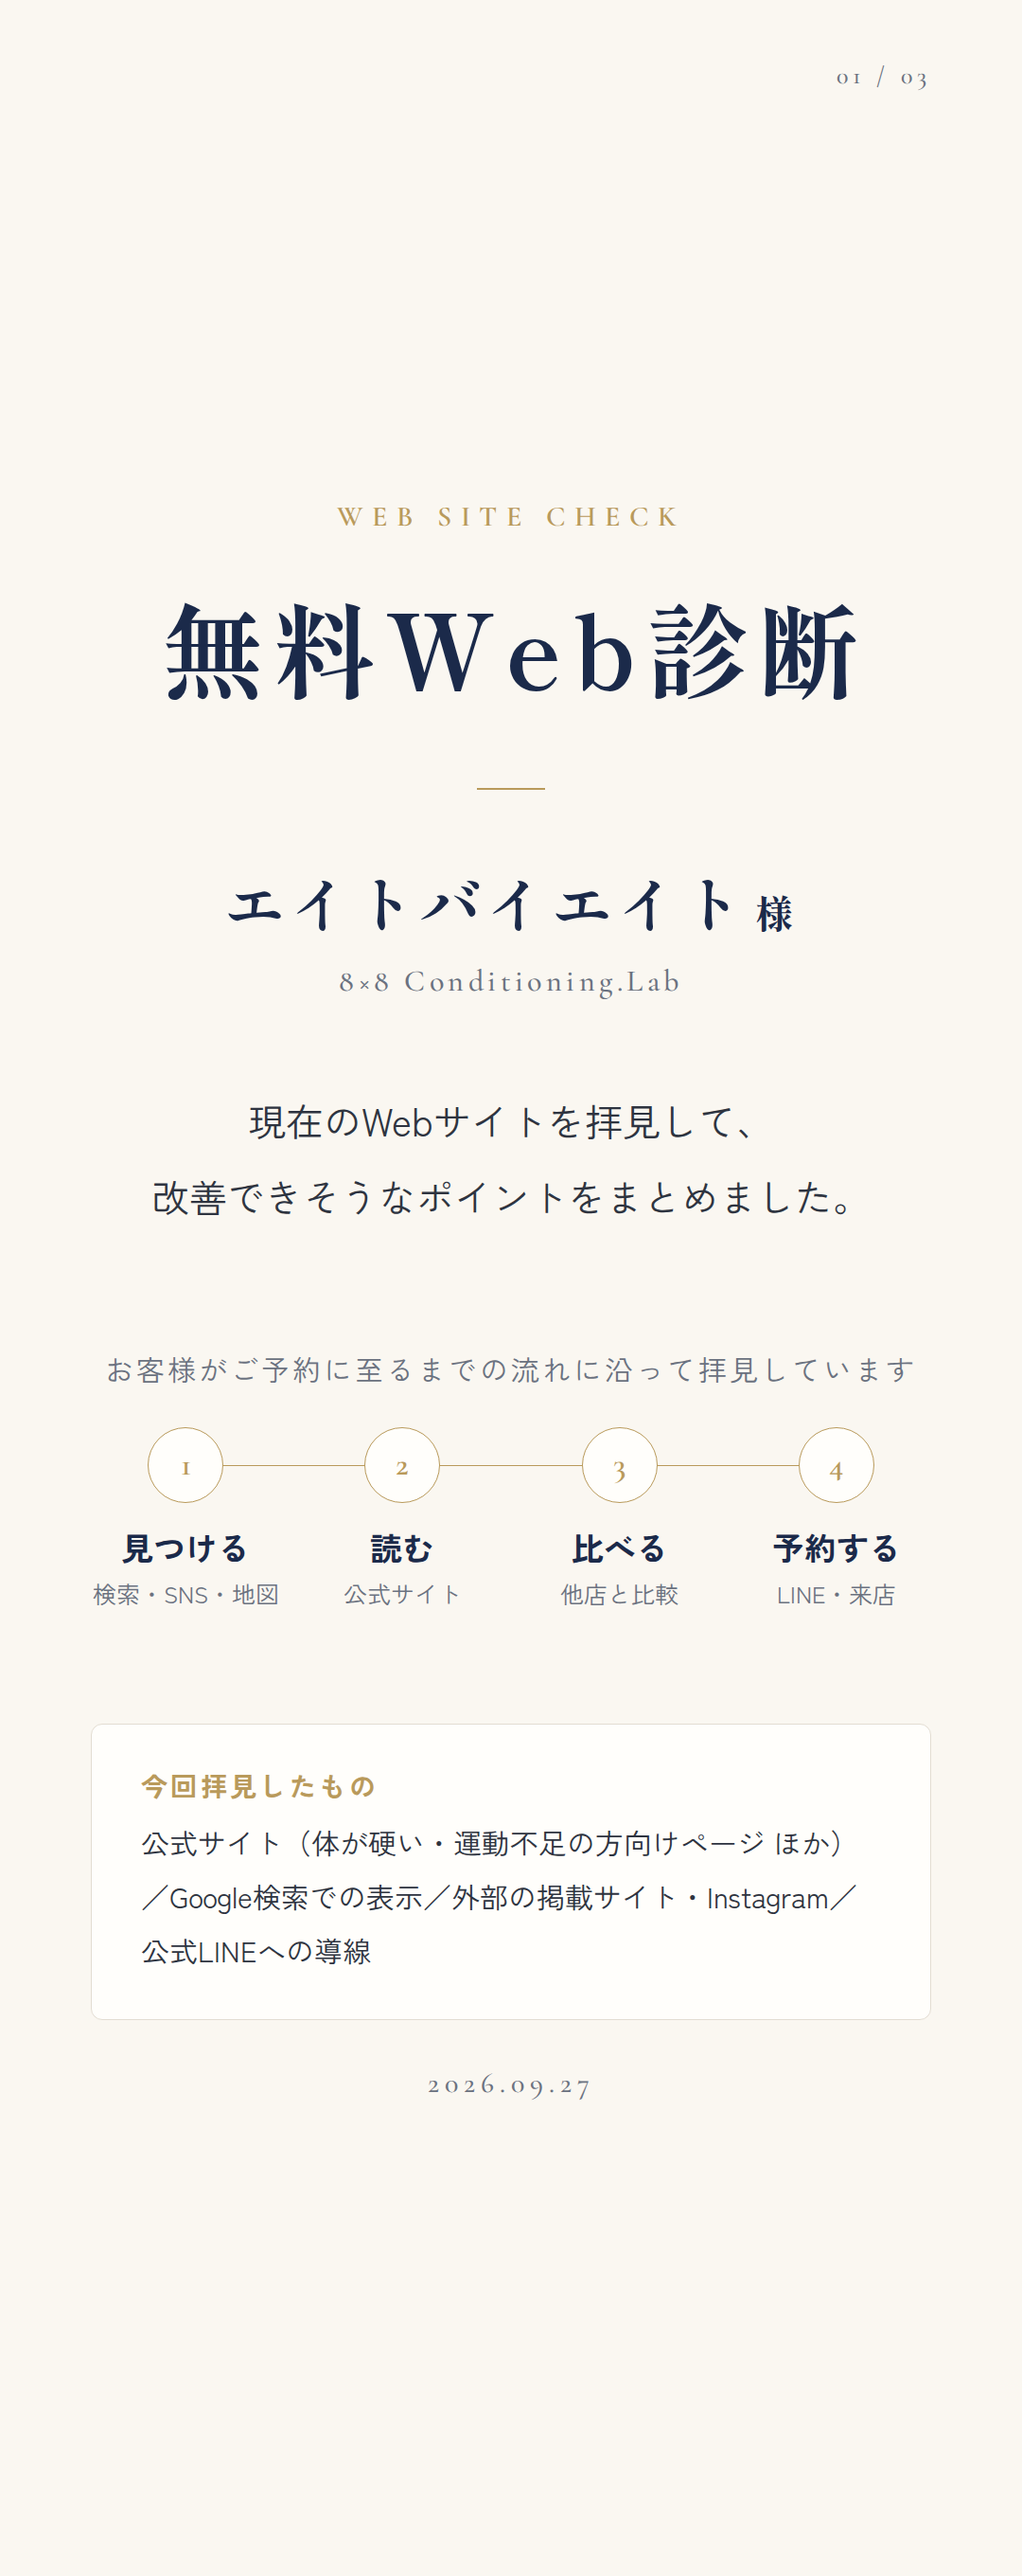
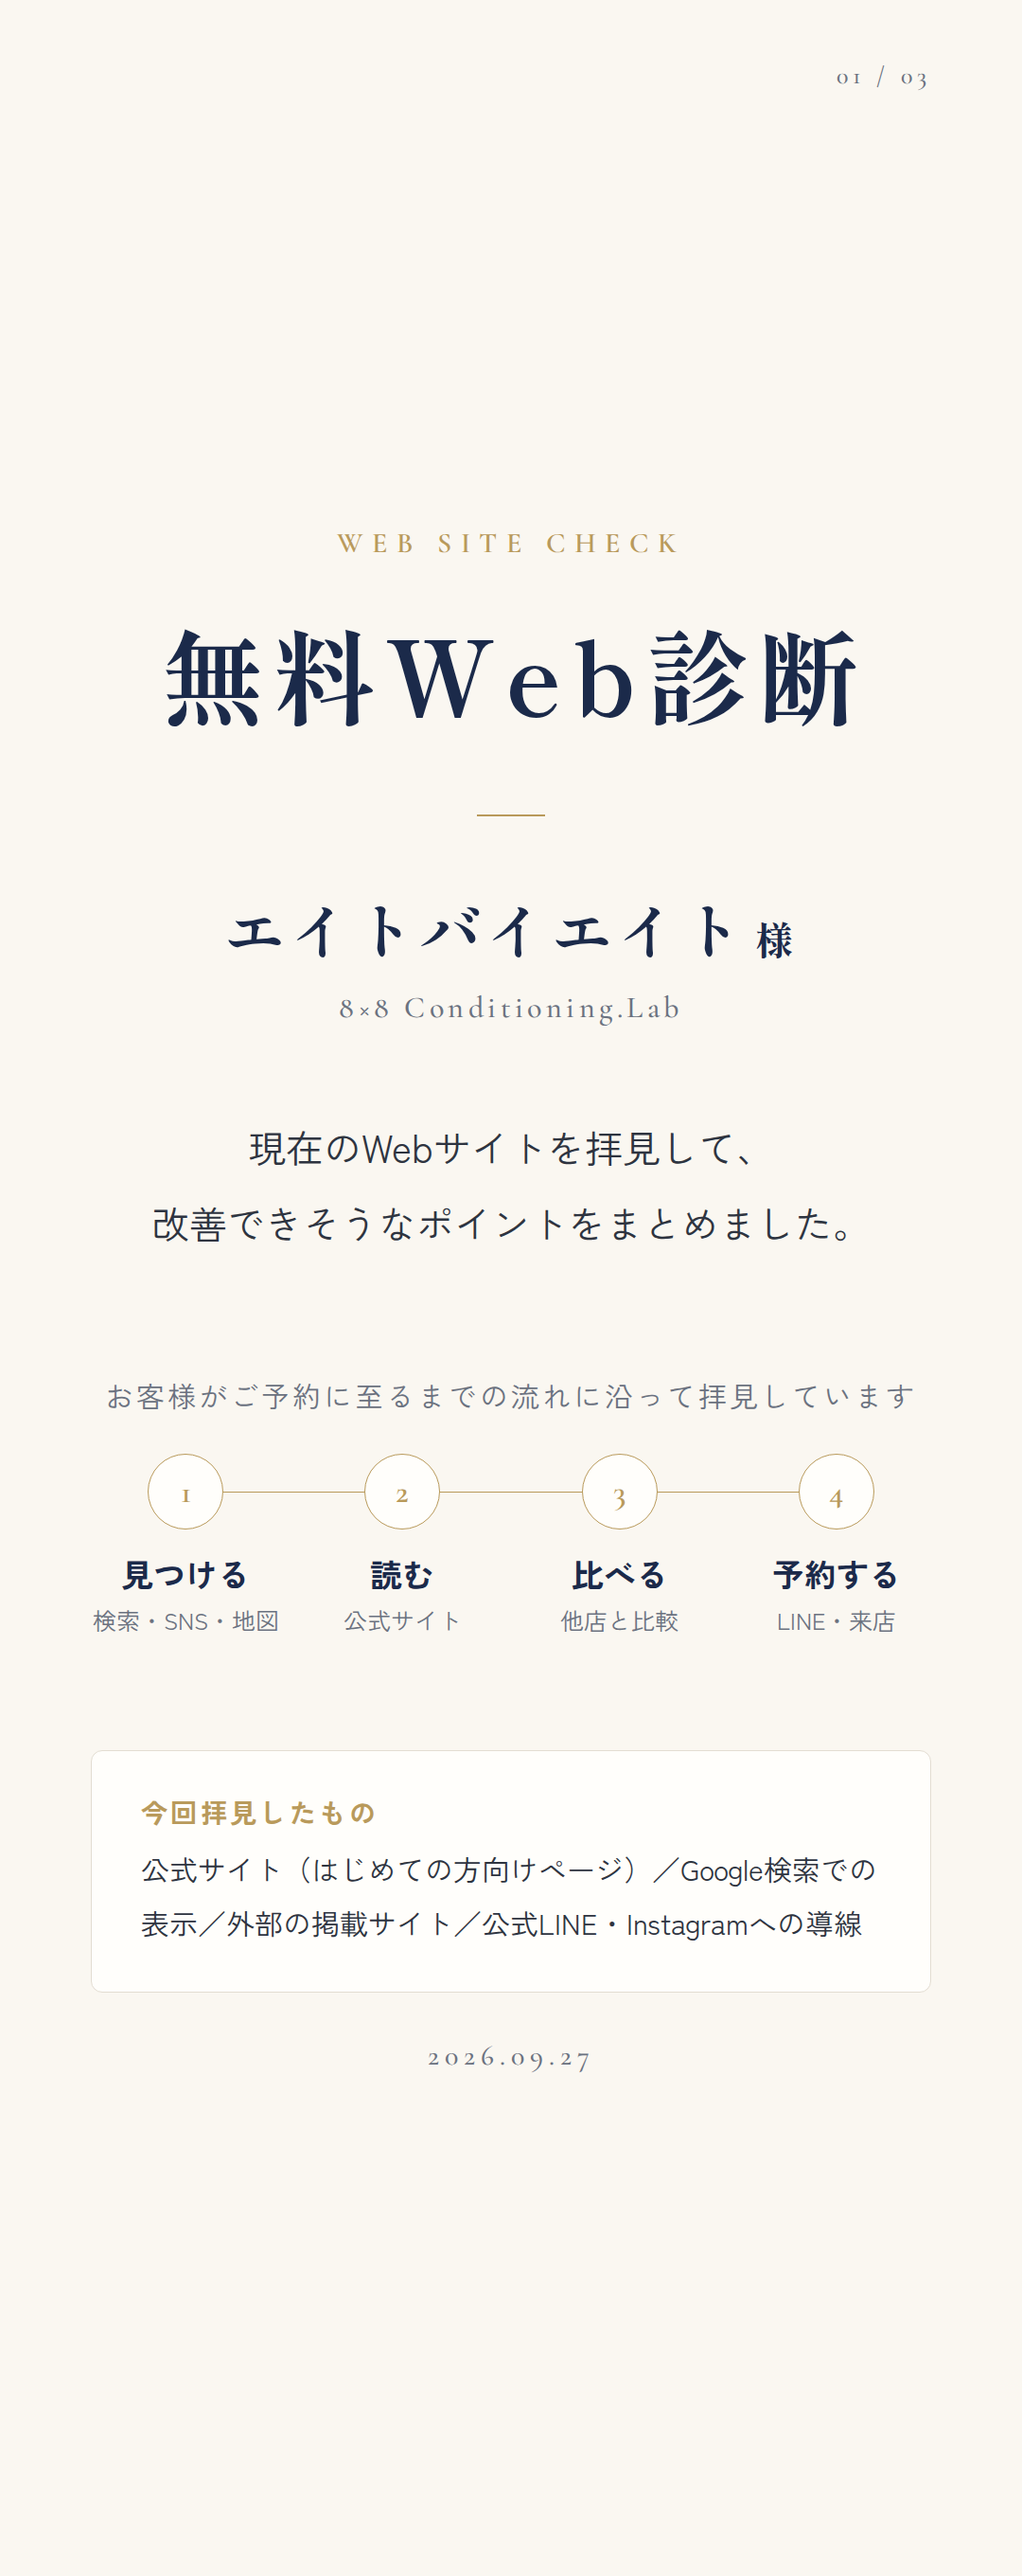
Update web check with findings verified from page source
Claude-Session: https://claude.ai/code/session_01Bsyju6n5ByhgCXtZwvMtoS

diff --git a/web_check/8x8_conditioning_lab.html b/web_check/8x8_conditioning_lab.html
@@ -43,7 +43,7 @@
   /* 2枚目 */
   .head{ margin-bottom:48px; }
   .head h1{ font-size:72px; letter-spacing:.08em; margin-top:16px; }
-  .good{ list-style:none; margin:16px 0 52px; }
+  .good{ list-style:none; margin:8px 0 40px; }
   .good li{ padding:20px 0 20px 52px; border-bottom:1px dotted var(--line); position:relative; }
   .good li::before{ content:""; position:absolute; left:8px; top:33px; width:22px; height:22px; border-radius:50%; border:3px solid var(--gold); }
   .good b{ display:block; font-size:34px; color:var(--navy); font-weight:700; line-height:1.5; }
@@ -51,12 +51,12 @@
   .issue{ background:var(--white); border:1px solid var(--line); border-radius:12px; padding:28px 40px 30px; margin-top:22px; }
   .issue .top{ display:flex; align-items:center; gap:18px; }
   .no{ font-family:"Cormorant Garamond",serif; font-size:46px; color:var(--gold); font-weight:600; line-height:1; }
-  .tag{ font-size:24px; color:var(--navy); border:1.5px solid var(--navy); border-radius:30px; padding:4px 18px; letter-spacing:.06em; font-weight:500; }
+  .tag{ white-space:nowrap; flex-shrink:0; font-size:24px; color:var(--navy); border:1.5px solid var(--navy); border-radius:30px; padding:4px 18px; letter-spacing:.06em; font-weight:500; }
   .issue h3{ font-size:35px; color:var(--navy); font-weight:700; line-height:1.4; }
   .issue p{ font-size:29px; line-height:1.65; margin-top:14px; }
   .issue p.why{ color:var(--sub); margin-top:8px; padding-left:44px; position:relative; }
   .issue p.why::before{ content:"→"; position:absolute; left:0; color:var(--gold); }
-  .memo{ margin-top:36px; }
+  .memo{ margin-top:24px; }
   .memo .row{ display:flex; gap:24px; padding:20px 0; border-bottom:1px dotted var(--line); }
   .memo .k{ flex:0 0 100px; font-size:28px; color:var(--gold); font-weight:700; letter-spacing:.08em; padding-top:2px; }
   .memo .v{ font-size:30px; line-height:1.6; color:var(--navy); font-weight:500; }
@@ -104,7 +104,7 @@
 
   <dl class="scope">
     <dt>今回拝見したもの</dt>
-    <dd>公式サイト（体が硬い・運動不足の方向けページ ほか）／Google検索での表示／外部の掲載サイト・Instagram／公式LINEへの導線</dd>
+    <dd>公式サイト（はじめての方向けページ）／Google検索での表示／外部の掲載サイト／公式LINE・Instagramへの導線</dd>
   </dl>
   <p class="date">2026.09.27</p>
 </section>
@@ -119,35 +119,35 @@
 
   <h2>良いところ</h2>
   <ul class="good">
-    <li><b>検索結果に地域名とサービス名が入っている</b><span>「東日本橋・馬喰町」「マシンピラティス」で探す方に見つけてもらいやすい形です</span></li>
-    <li><b>「体が硬い・運動不足の方」専用のページがある</b><span>運動に不安がある方の入口がすでにあります</span></li>
-    <li><b>7:00〜23:00・無休／駅徒歩3分／お客様の声</b><span>比較するときの判断材料が揃っています</span></li>
+    <li><b>不安に寄り添う流れで1ページが組まれている</b><span>共感・特徴・声・料金・質問と、比べる材料がそろっています</span></li>
+    <li><b>料金を「1回あたり」まで明記</b><span>他店と比べるときに判断しやすく、安心材料になっています</span></li>
+    <li><b>代表の経歴と、接骨院併設という強み</b><span>「体を診られるジム」という専門性がしっかり伝わります</span></li>
   </ul>
 
   <h2>改善優先度が高いところ</h2>
   <div class="issue">
-    <div class="top"><span class="no">01</span><span class="tag">導線</span><h3>初回の入口が複数ある</h3></div>
-    <p>サイト内に「無料カウンセリング」と「体験 500円」、外部予約サイトには別の初回メニュー</p>
-    <p class="why">比べている段階の方は、選択肢が多いと迷って手が止まりやすくなります</p>
+    <div class="top"><span class="no">01</span><span class="tag">スマホ</span><h3>固定メニューに「予約」がない</h3></div>
+    <p>画面下に常に出るメニューは「HOME・アクセス・お問い合わせ」の3つ</p>
+    <p class="why">予約したくなった瞬間に押せる場所にあると、止まりにくくなります</p>
   </div>
   <div class="issue">
-    <div class="top"><span class="no">02</span><span class="tag">情報の鮮度</span><h3>期限を過ぎた表記が検索に出ている</h3></div>
-    <p>Google検索の説明文に「2026年4月30日まで」のキャンペーン表記（9月27日時点）</p>
-    <p class="why">「今も受けられるのかな？」と、予約前に不安が残りやすくなります</p>
+    <div class="top"><span class="no">02</span><span class="tag">導線</span><h3>公式LINEへの入口がページ内にない</h3></div>
+    <p>予約方法は電話と予約カレンダーの2つ。LINE・Instagramへのリンクはなし</p>
+    <p class="why">電話は気が引ける方も、LINEなら気軽に相談しやすくなります</p>
   </div>
   <div class="issue">
-    <div class="top"><span class="no">03</span><span class="tag">スマホ</span><h3>LINE予約が文章での手順案内</h3></div>
-    <p>ページ内で「登録→友だち追加→トーク」と手順を説明</p>
-    <p class="why">スマホではボタン1つで進める方が、途中で止まりにくくなります</p>
+    <div class="top"><span class="no">03</span><span class="tag">SEO</span><h3>お客様の声が画像のみで掲載</h3></div>
+    <p>声は写真で掲載され、ページ内の画像の説明（alt）もすべて空欄</p>
+    <p class="why">画像の中の文字は検索で読み取られにくく、声が活かされにくくなります</p>
   </div>
 
   <div class="memo">
-    <div class="row"><div class="k">SEO</div><div class="v">ページのURLが「/2136-2/」、タイトルに地域名がない<span>「馬喰町 初心者 ジム」などで探す方に届きにくくなります</span></div></div>
-    <div class="row"><div class="k">MEO</div><div class="v">店名の表記が掲載先ごとに異なる<span>「エイトバイエイト」「8×8 Conditioning.Lab」など。そろえると地図検索での評価がまとまりやすくなります</span></div></div>
-    <div class="row"><div class="k">SNS</div><div class="v">Instagramは「40代から」、サイトは「体が硬い・運動不足の方」<span>伝える相手がそろうと、SNSから来た方も迷わず読み進められます</span></div></div>
+    <div class="row"><div class="k">SEO</div><div class="v">タイトルに地域名がなく、URLは「/2136-2/」<span>「馬喰町 パーソナルジム 初心者」などで探す方に届きにくくなります</span></div></div>
+    <div class="row"><div class="k">MEO</div><div class="v">店名・営業時間の表記が場所によって異なる<span>店名はサイト内でも複数の表記。営業時間はサイト21:30、一部の掲載サイト23:00</span></div></div>
+    <div class="row"><div class="k">信頼性</div><div class="v">「プライバシーポリシー」がGoogleのページにつながっている<span>お店の方針ページがあると、予約時の安心感につながります</span></div></div>
   </div>
 
-  <p class="note">※2026年9月27日時点で、Google検索結果・公開ページ・外部掲載情報から確認できた内容です。表示速度などの実測値は含んでいません。</p>
+  <p class="note">※2026年9月27日時点の公開ページ（ソースを含む）・Google検索結果・外部掲載情報から確認した内容です。表示速度の実測値は含んでいません。</p>
 </section>
 
 <!-- ===== 3枚目 ===== -->
@@ -161,27 +161,27 @@
   <div class="lv" style="margin-top:0">
     <div class="lv-h"><span class="n">①</span><b>すぐ改善</b><span class="sub">今のサイトのままでできること</span></div>
     <ul>
-      <li><b>キャンペーンの期限・内容を最新に更新</b><span>検索結果の時点で「今受けられる」と伝わる</span></li>
-      <li><b>店名の表記をひとつにそろえる</b><span>サイト・Googleマップ・掲載サイトの情報がひとつにつながる</span></li>
-      <li><b>このページのタイトルに地域名を入れる</b><span>近くで「運動をはじめたい」と探している方に届きやすくなる</span></li>
+      <li><b>スマホの固定メニューに「予約」を追加</b><span>読んでいる途中でも、ワンタップで予約に進める</span></li>
+      <li><b>予約ボタンの横に、公式LINEの入口を</b><span>電話が苦手な方も、気軽に相談から始められる</span></li>
+      <li><b>店名・営業時間の表記をそろえる</b><span>サイト・Googleマップ・掲載サイトで、正しい情報が伝わる</span></li>
     </ul>
   </div>
 
   <div class="lv">
     <div class="lv-h"><span class="n">②</span><b>リニューアル時に改善</b></div>
     <ul>
-      <li><b>「はじめての方」の入口をひとつに整理</b><span>迷わず最初の一歩を選べる</span></li>
-      <li><b>スマホで常に見えるLINE予約ボタン</b><span>読みながら、そのまま予約に進める</span></li>
-      <li><b>内容が伝わるURLと、表示速度の計測・改善</b><span>検索でも共有でも内容が伝わり、読み込み待ちも減らせる</span></li>
+      <li><b>お客様の声を文字でも掲載し、画像に説明をつける</b><span>検索にも、スマホでの読みやすさにもつながる</span></li>
+      <li><b>タイトルとURLに地域名・内容を入れる</b><span>近くで探している初心者の方に届きやすくなる</span></li>
+      <li><b>画像・予約カレンダー・動画の読み込みを整理</b><span>スマホでの表示が軽くなり、読み進めやすくなる</span></li>
     </ul>
   </div>
 
   <div class="lv">
     <div class="lv-h"><span class="n">③</span><b>今後強化</b></div>
     <ul>
-      <li><b>Instagramとサイトで「誰のためのジムか」をそろえる</b><span>SNS → サイト → 予約の流れがひとつにつながる</span></li>
-      <li><b>お客様の声を悩み別に整理</b><span>体の硬さ・運動不足・姿勢など、同じ悩みの声が見つかる</span></li>
-      <li><b>接骨院の知見という強みを、比較の場面で伝わる形に</b><span>他のジムとの違いが、はじめての方にも分かりやすくなる</span></li>
+      <li><b>お店のプライバシーポリシーページを用意</b><span>予約・お問い合わせのときの安心感が高まる</span></li>
+      <li><b>アクセス解析の設定を整理</b><span>計測タグが複数あるため、整えると予約につながったページが分かる</span></li>
+      <li><b>Instagramの発信とこのページをつなぐ</b><span>SNSで知った方が、そのまま予約まで進める</span></li>
     </ul>
   </div>
 
